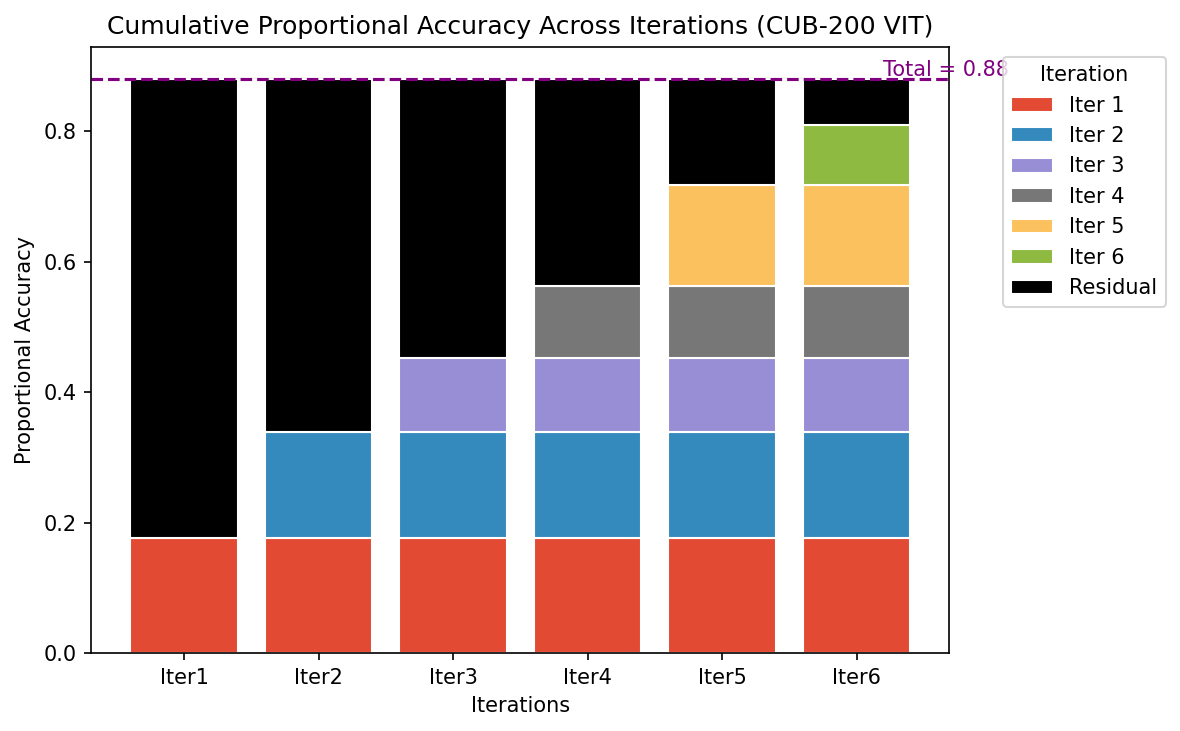
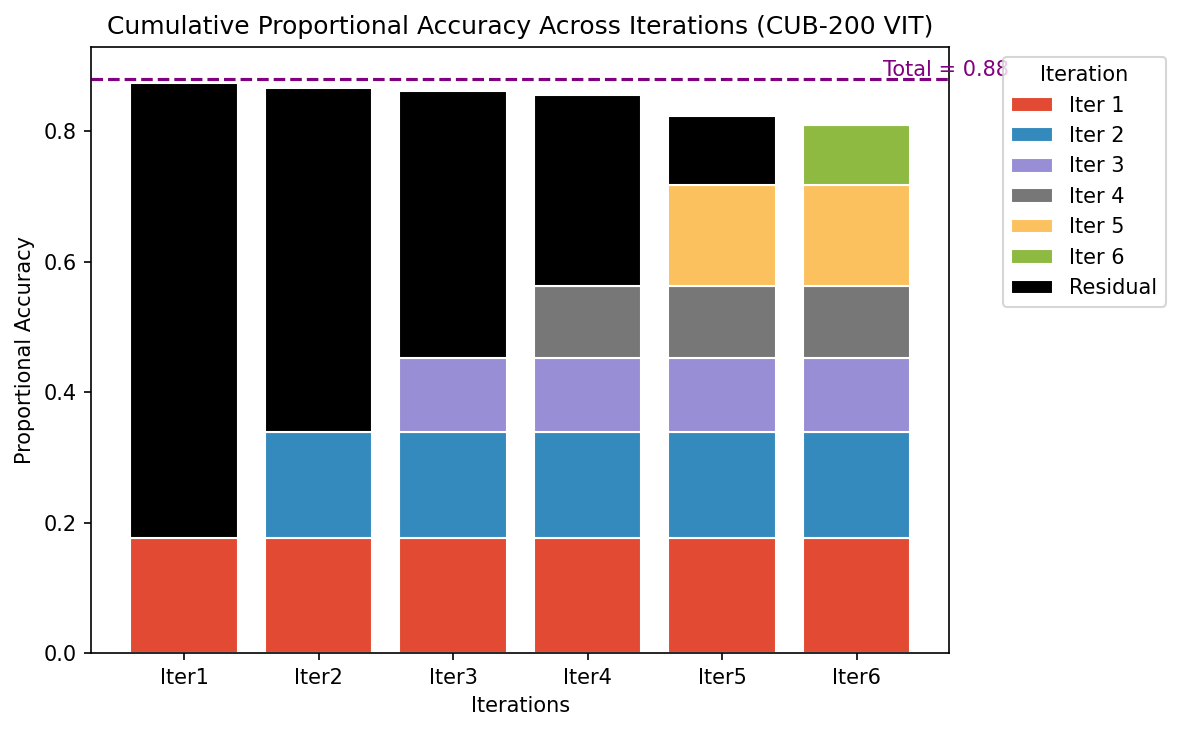
Fixed graph

Changed region(s): [[0.4576, 0.0903, 0.7932, 0.1806], [0.2136, 0.0903, 0.4271, 0.1505], [0.122, 0.0903, 0.1831, 0.1204]]

diff --git a/src/codebase/proportional_accuracy.py b/src/codebase/proportional_accuracy.py
@@ -16,6 +16,11 @@ colors = ["#E24A33", "#348ABD", "#988ED5", "#777777", "#FBC15E", "#8EBA42"]
 # Total proportional accuracy (target height)
 total_acc = 0.88
 
+# --- NEW: correct residual proportional accuracy ---
+residual_coverage = np.array([963, 739, 572, 421, 149, 2])
+accuracy_r = np.array([85.670, 84.574, 84.615, 81.948, 83.221, 100.0])
+residual = (residual_coverage / total) * (accuracy_r / 100)
+
 # Create figure
 fig, ax = plt.subplots(figsize=(8, 5))
 bottom = np.zeros(len(iterations))
@@ -26,11 +31,10 @@ for i in range(len(iterations)):
            color=colors[i], edgecolor="white", label=f"Iter {i+1}")
     bottom[i:] += prop_accuracies[i]
 
-# --- Add black residual segment ---
-residual = total_acc - bottom  # space left to fill up to dashed line
+# --- Add TRUE residual segment ---
 ax.bar(iterations, residual, bottom=bottom, color="black", edgecolor="white", label="Residual")
 
-# --- Add dashed purple line at total accuracy ---
+# --- Keep the dashed purple line ---
 ax.axhline(y=total_acc, color="purple", linestyle="--", linewidth=1.5)
 ax.text(len(iterations) - 0.8, total_acc + 0.005, f"Total = {total_acc:.2f}", color="purple")
 
